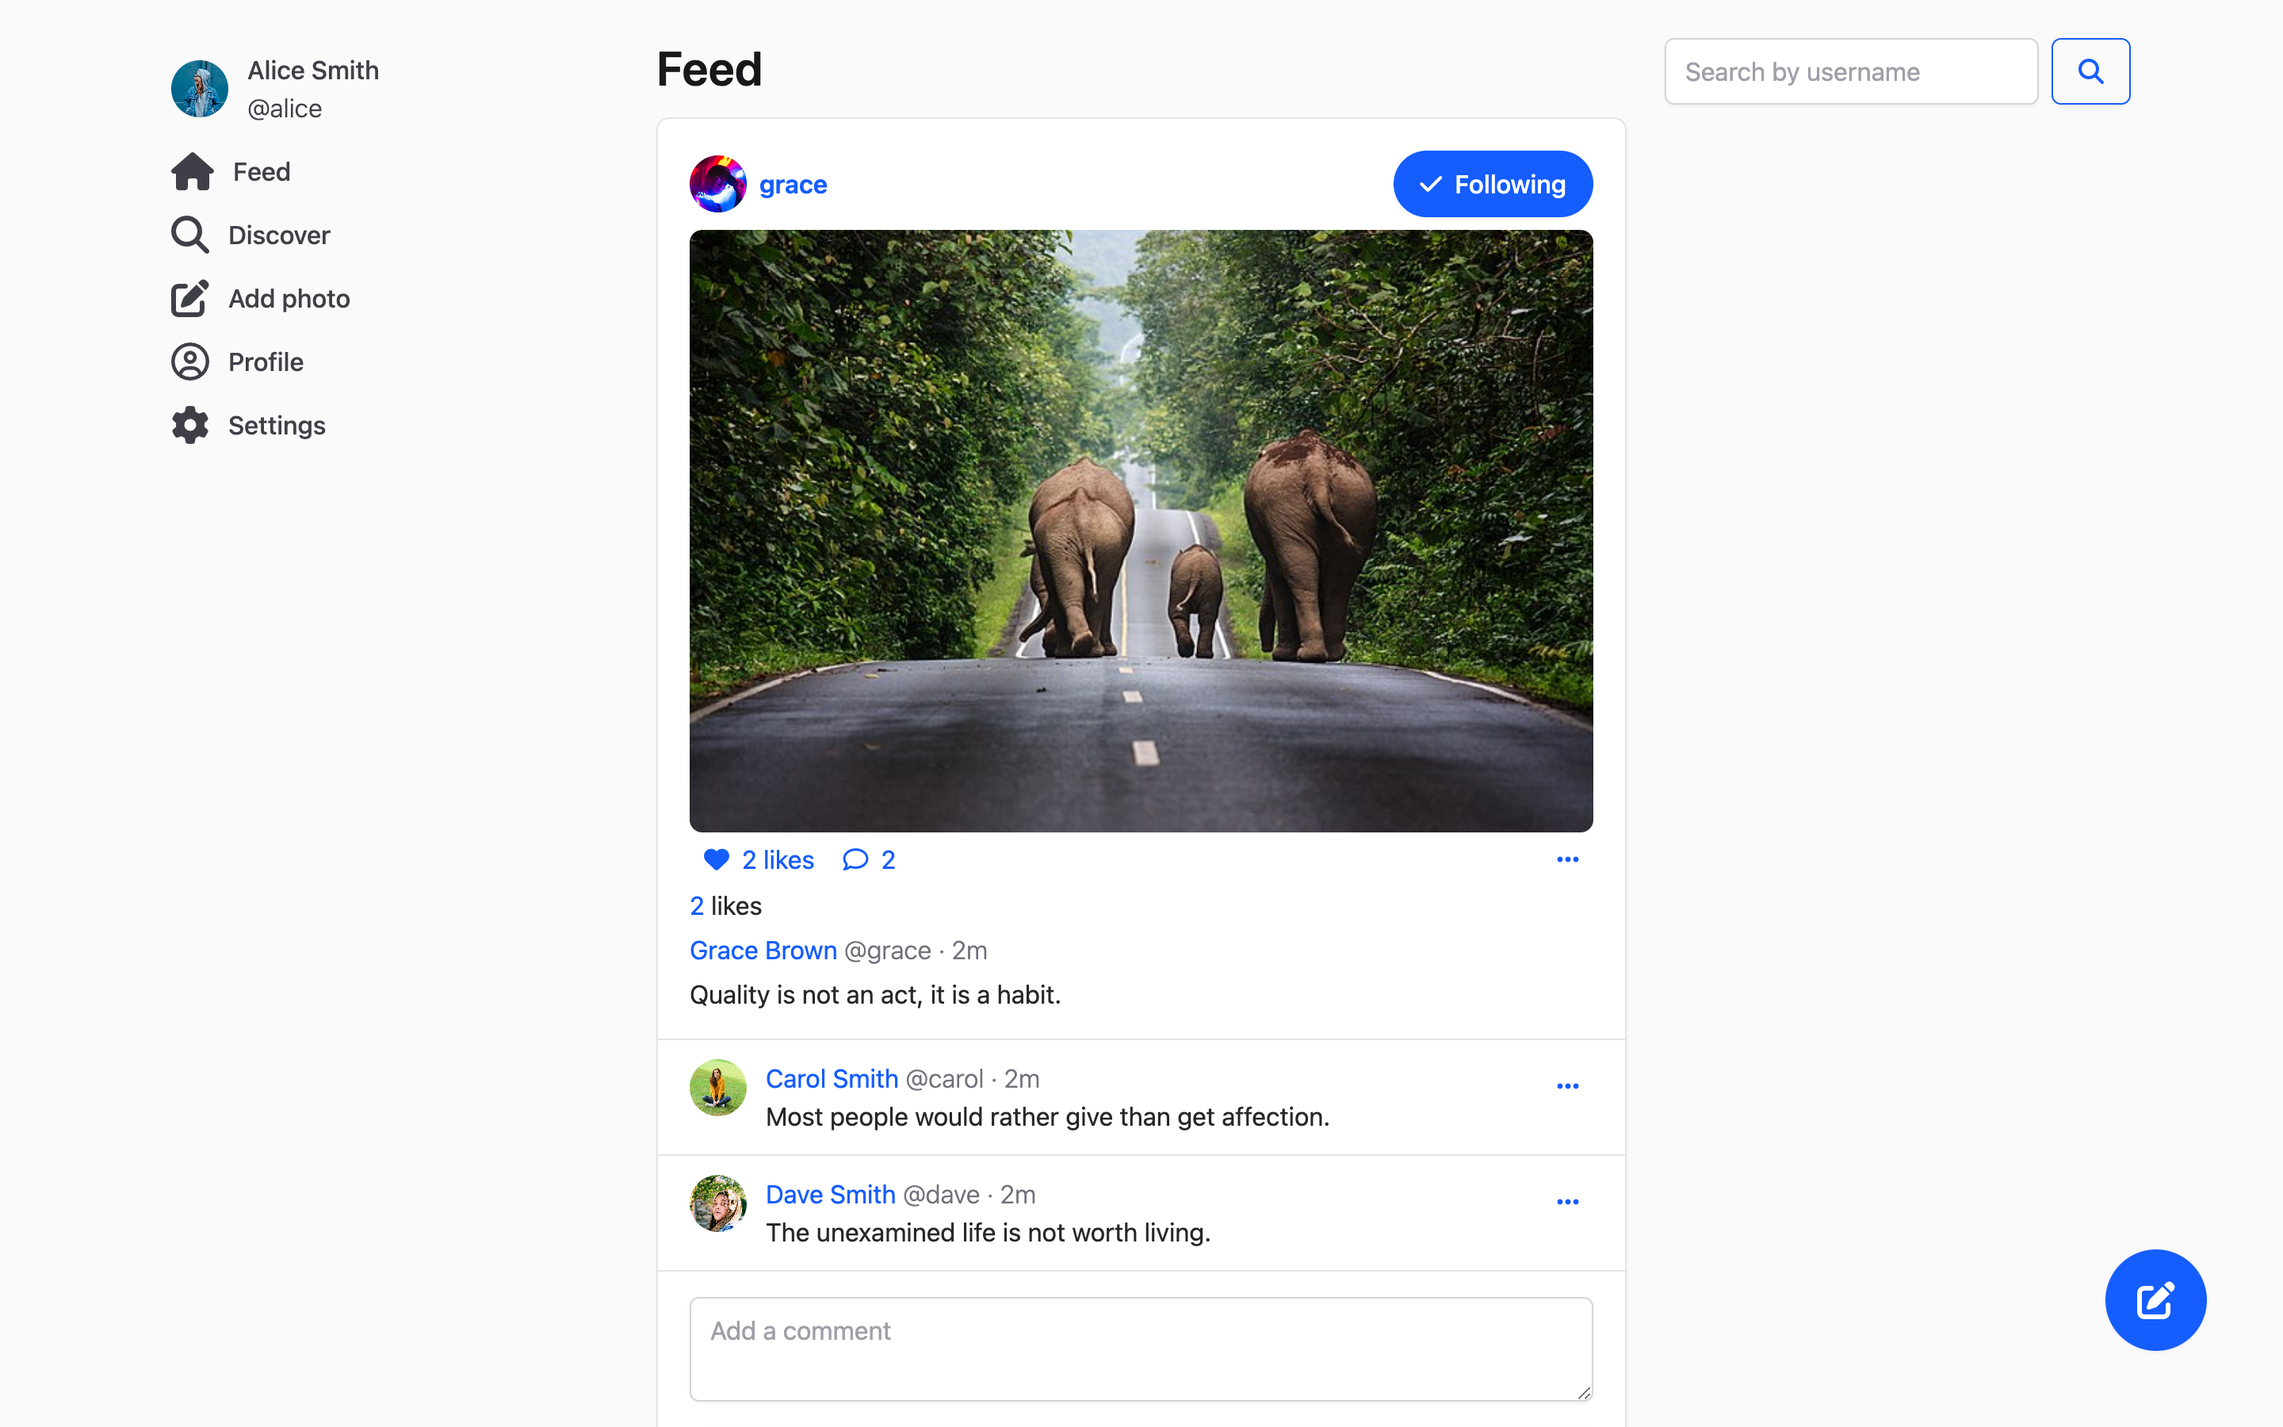
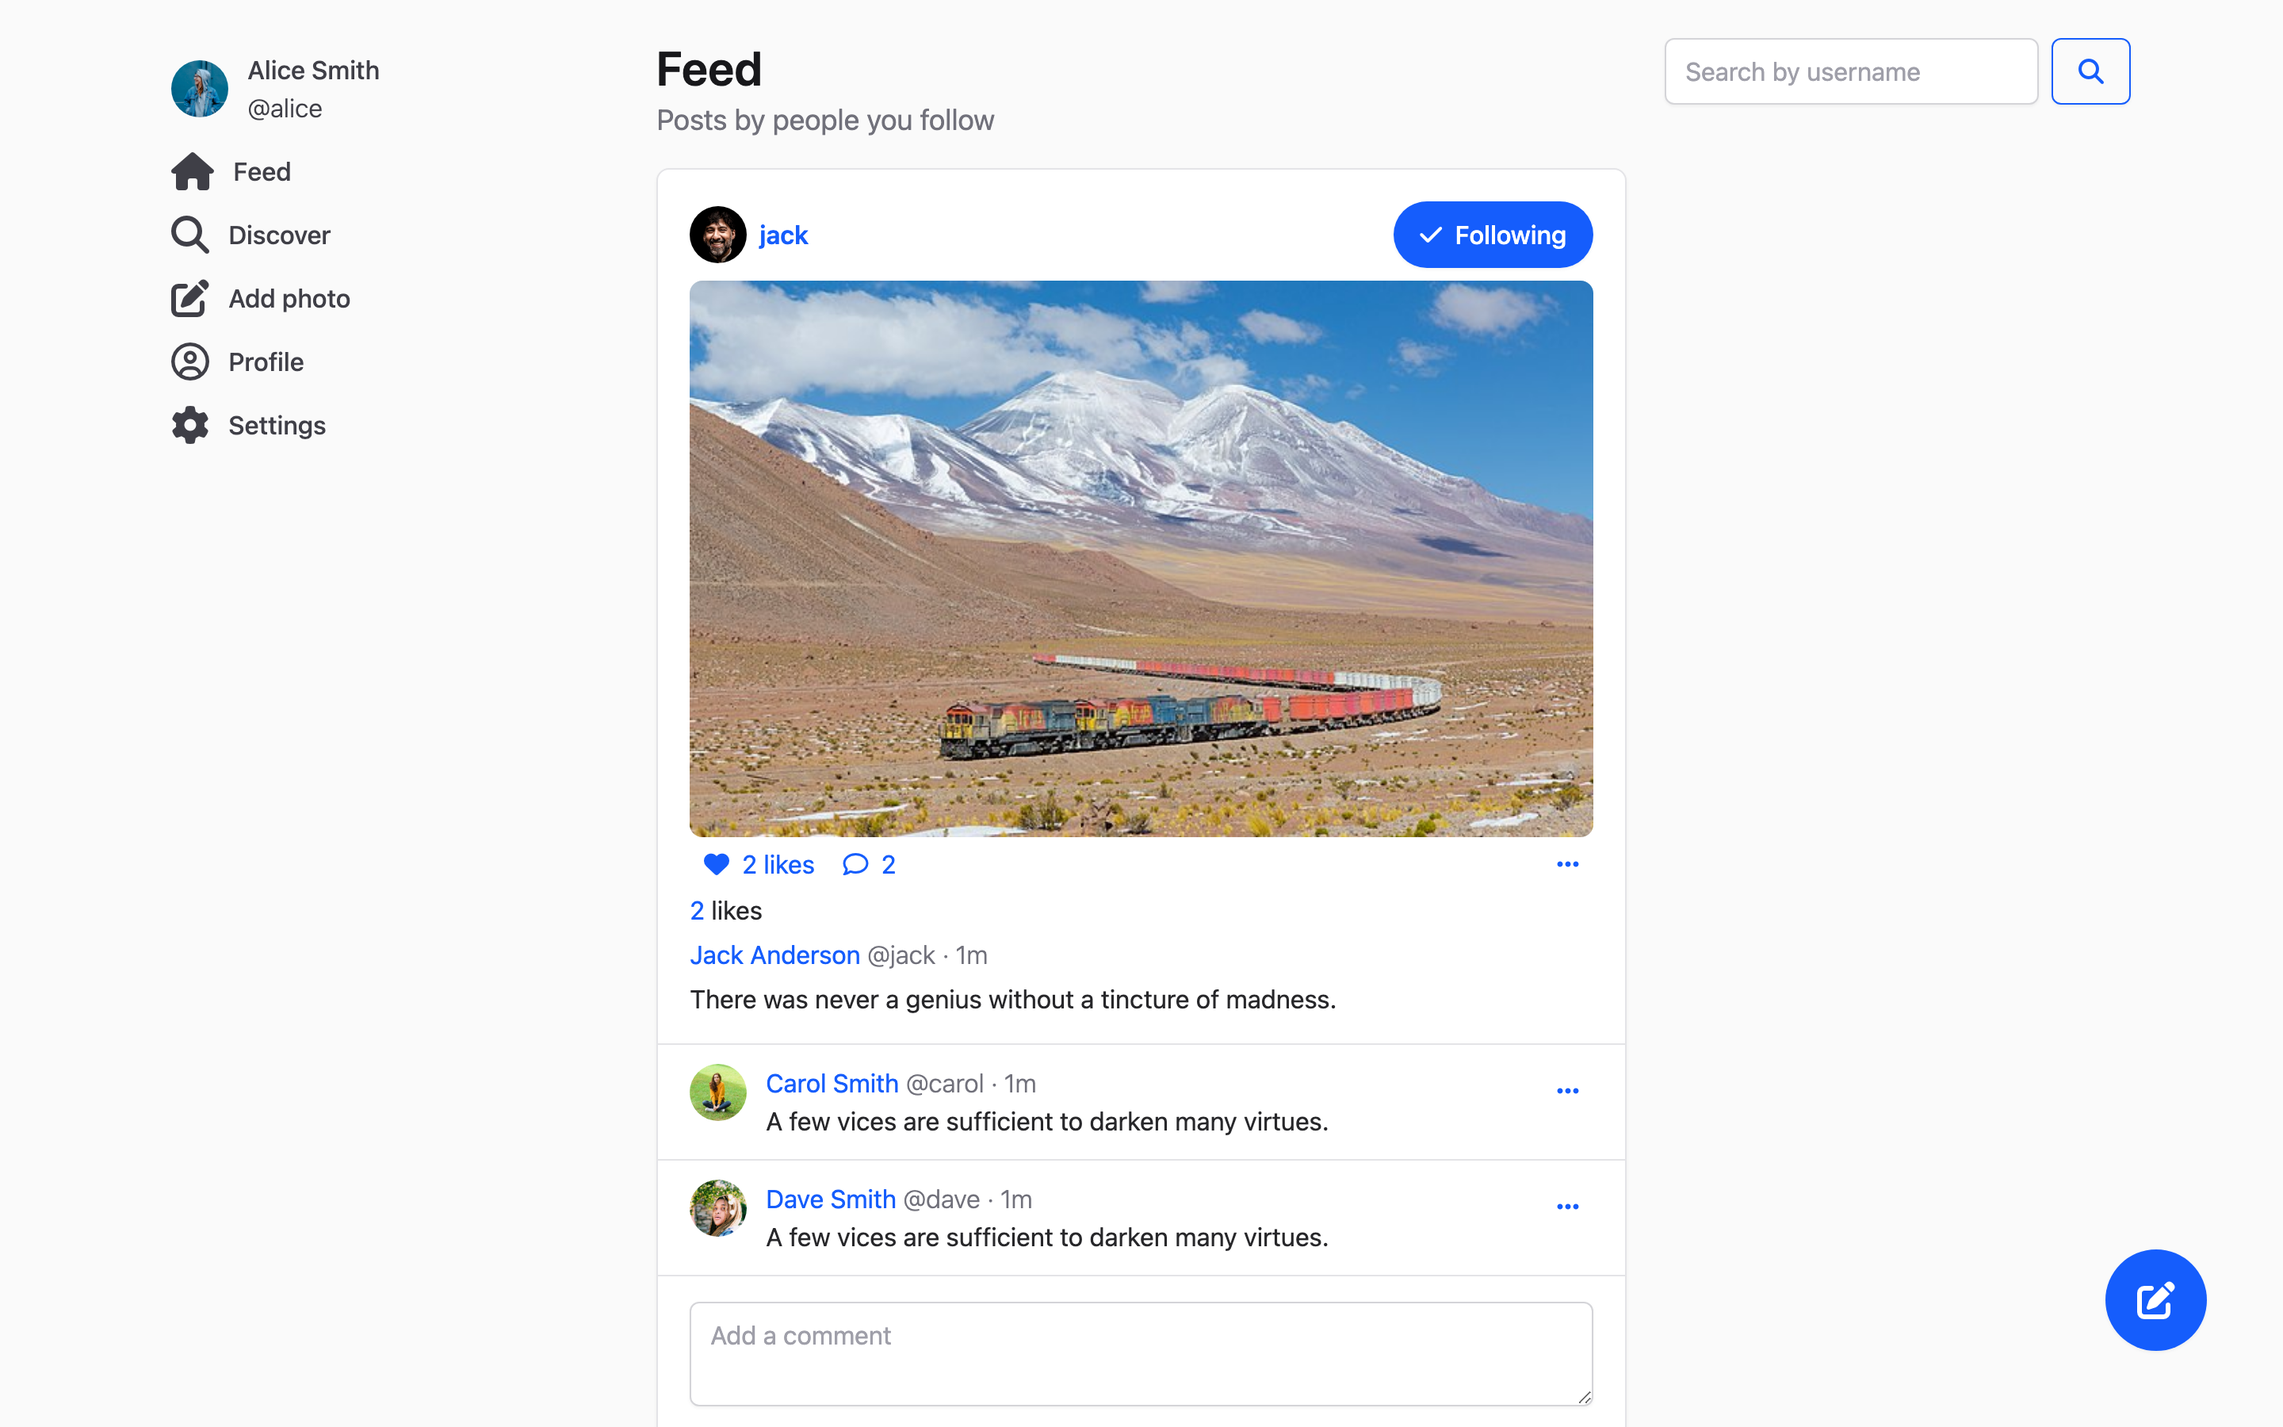
Remove pinning, add Feed and Discover subheadings, always show pending
The pin badge, the pin menu item and the `button_to` with `params:`
walkthrough are gone, along with the quiz question about it, since
nothing else in the app uses that technique.

Feed and Discover get a line under the title saying what each
lists. The pending link shows on every own profile, and the check
for it stays signed in as Alice, who has three pending requests in
the sample data. Four screenshots are retaken to match.

Claude-Session: https://claude.ai/code/session_01ARKWv8DH7pcTKiiUAtRjBe

Changed region(s): [[0.2812, 0.0622, 0.7188, 0.9644]]

diff --git a/content.md b/content.md
@@ -330,48 +330,23 @@ The photo card is the most important partial in the app. Every photo on the feed
 
 ![A photo card on Alice's profile page, with numbered callouts on its parts](/assets/photo-card-annotated.png)
 
-1. The "Pinned" badge (only on the owner's profile page).
-2. The owner's avatar and username, and a follow button.
-3. The photo.
-4. The like button and the comment count.
-5. The `...` menu: Edit, Delete, and Pin.
-6. The number of likes, which links to the "Liked by" page.
-7. The owner's name, how long ago they posted, and the caption.
-8. The comments.
-9. The form for a new comment.
+1. The owner's avatar and username, and a follow button.
+2. The photo.
+3. The like button and the comment count.
+4. The `...` menu: Edit and Delete.
+5. The number of likes, which links to the "Liked by" page.
+6. The owner's name, how long ago they posted, and the caption.
+7. The comments.
+8. The form for a new comment.
 
 Replace the scaffold-generated `app/views/photos/_photo.html.erb`. We'll build this file section by section, so delete what's in it now.
 
-### Pinned badge
+### Owner and follow button
 
-First, the card itself and the "Pinned" badge:
+First, the card itself, with the owner's avatar and username, and a follow button:
 
 ```erb
 <div class="card">
-  <% if photo.pinned? && current_page?(user_path(photo.owner.username)) %>
-    <div class="icon-link text-blue-600 mb-2">
-      <i class="fa-solid fa-thumbtack"></i>
-      Pinned
-    </div>
-  <% end %>
-<!-- ... -->
-```
-{: filename="app/views/photos/_photo.html.erb" }
-
-`class="card"` turns the `<div>` into a white box with a border and rounded corners, like the cards in [the AppDev styles reference](/lessons/945-style-with-appdev-tailwind#cards).
-
-We only show the "Pinned" badge on the owner's profile page. The `current_page?` helper checks whether the URL of the current request matches the path we give it. Pinned photos also go to the top of the owner's profile page, as we'll see.
-
-You can try pinning in [the target](https://pg-industrial.matchthetarget.com/): sign in, visit your profile page, and use the `...` menu on one of your photos to "Pin" or "Un-pin" it. The thumbtack and "Pinned" don't show on the feed or other pages, where `current_page?(user_path(photo.owner.username))` is `false`.
-
-### Owner and follow button
-
-Next, the owner's avatar and username, and a follow button:
-
-```erb{4-8,10-11}
-<!-- ... -->
-  <% end %>
-
   <div class="flex items-center justify-between mb-2">
     <div class="flex items-center gap-2">
       <%= image_tag photo.owner.avatar_image, class: "rounded-full img-small img-cover" %>
@@ -384,13 +359,15 @@ Next, the owner's avatar and username, and a follow button:
 ```
 {: filename="app/views/photos/_photo.html.erb" }
 
+`class="card"` turns the `<div>` into a white box with a border and rounded corners, like the cards in [the AppDev styles reference](/lessons/945-style-with-appdev-tailwind#cards).
+
 We reuse the `follow_requests/follow_unfollow` partial, with `current_user` as the `sender` and the photo's owner as the `recipient`.
 
 ### Image and action buttons
 
 Now the photo, and below it a row with the like button, a comment count, and the `...` menu:
 
-```erb{4,6-8,10-14,16-19,21-33}
+```erb{4,6-8,10-14,16-19,21-30}
 <!-- ... -->
   </div>
 
@@ -418,9 +395,6 @@ Now the photo, and below it a row with the like button, a comment count, and the
         <li>
           <%= button_to "Delete", photo_path(photo), method: :delete, class: "dropdown-item" %>
         </li>
-        <li>
-          <%= button_to photo.pinned? ? "Un-pin" : "Pin", photo_path(photo), method: :patch, class: "dropdown-item", params: { photo: { pinned: !photo.pinned } } %>
-        </li>
       </ul>
     </div>
   </div>
@@ -428,37 +402,10 @@ Now the photo, and below it a row with the like button, a comment count, and the
 ```
 {: filename="app/views/photos/_photo.html.erb" }
 
-`w-full` stretches the photo to the width of the card, and `rounded-lg` rounds its corners. On the left of the row, we render the like button partial and a comment icon that links to the photo's page. The `...` menu on the right is the same dropdown as the one on each comment, with three options:
+`w-full` stretches the photo to the width of the card, and `rounded-lg` rounds its corners. On the left of the row, we render the like button partial and a comment icon that links to the photo's page. The `...` menu on the right is the same dropdown as the one on each comment, with two options:
 
 - **Edit** links to the photo's edit page.
 - **Delete** sends a DELETE request with `button_to`.
-- **Pin** or **Un-pin** sends a PATCH request that flips the photo's `pinned` column.
-
-#### Pinning with `button_to` and `params:`
-
-The pin line is the trickiest one, so let's unpack it:
-
-```erb
-<%= button_to photo.pinned? ? "Un-pin" : "Pin", photo_path(photo), method: :patch, class: "dropdown-item", params: { photo: { pinned: !photo.pinned } } %>
-```
-
-We already know that `button_to` makes a small form with one button, which submits to a URL. Here:
-
-- `photo.pinned? ? "Un-pin" : "Pin"` is the button's text. This is Ruby's **ternary operator**, a one-line shortcut for an `if`/`else`: `condition ? value_if_true : value_if_false`. If the photo is pinned, the button says "Un-pin"; otherwise, it says "Pin."
-- `photo_path(photo)` is the photo's URL (e.g., `/photos/42`), and `method: :patch` sends a PATCH request there, which reaches the `update` action in `PhotosController`.
-- `params: { photo: { pinned: !photo.pinned } }` adds hidden fields to the form, without our having to write them out. The nested hash means the parameter arrives as `photo[pinned]`, which is the shape that `photo_params` expects in the controller (`params.expect(photo: [ :image, :caption, :pinned ])`).
-- `!photo.pinned` flips the boolean. If the photo is pinned (`true`), we send `false` to un-pin it, and if it isn't, we send `true`. One button, two behaviors.
-
-Here's a check on `button_to` with `params:`.
-
-- A post card has `<%= button_to "Archive", post_path(post), method: :patch, params: { post: { archived: true } } %>`. What does clicking it send?
-- A GET request to `/posts/42?archived=true`
-  - Not quite. `method: :patch` makes it a PATCH request, and `params:` become hidden fields in the form.
-- A PATCH request to `/posts/42`, with `post[archived]` set to `true`
-  - Yes! The nested hash arrives in the shape that `post_params` expects.
-- A PATCH request to `/posts/42`, with no params
-  - Not quite. `params:` adds hidden fields to the form that `button_to` makes.
-{: .choose_best #button_to_params title="Extra params with button_to" points="1" answer="2" }
 
 ### Likes count and caption
 
@@ -576,13 +523,19 @@ Let's put the photo card to use. Replace the stub in `app/views/users/feed.html.
 ```erb
 <% content_for :title, "Feed" %>
 
-<h1>Feed</h1>
+<h1 class="mb-0">Feed</h1>
+
+<p class="text-lg text-zinc-500">
+  Posts by people you follow
+</p>
 
 <%= render @photos %>
 ```
 {: filename="app/views/users/feed.html.erb" }
 
-That's collection rendering again: one photo card for each photo in `@photos`. The `@photos` variable comes from the `UsersController#feed` action:
+The line under the heading tells the user what this page lists. `mb-0` removes the heading's bottom margin, so that the line sits right below it, and `text-lg text-zinc-500` makes the line a little larger and gray.
+
+`render @photos` is collection rendering again: one photo card for each photo in `@photos`. The `@photos` variable comes from the `UsersController#feed` action:
 
 ```rb{3}
   # ...
@@ -608,7 +561,7 @@ Ask questions now!
 
 <div class="alert alert-success">
 
-<i class="fa-solid fa-circle-check"></i> Visit `/`. You should see photo cards with images, like buttons, comment forms, and follow buttons. Add a comment, and see it appear below the photo. Un-like and like a photo.
+<i class="fa-solid fa-circle-check"></i> Visit `/`. You should see "Posts by people you follow" under the heading, and photo cards with images, like buttons, comment forms, and follow buttons. Add a comment, and see it appear below the photo. Un-like and like a photo.
 </div>
 
 ![The feed page, signed in as Alice, with photo cards in the center column](/assets/feed.png)
@@ -628,13 +581,17 @@ The discover page shows photos liked by the people you follow. Replace the stub 
 ```erb
 <% content_for :title, "Discover" %>
 
-<h1>Discover</h1>
+<h1 class="mb-0">Discover</h1>
+
+<p class="text-lg text-zinc-500">
+  Posts liked by people you follow
+</p>
 
 <%= render @photos %>
 ```
 {: filename="app/views/users/discover.html.erb" }
 
-The template is the same as the feed's, and so is the photo card. The difference is where `@photos` comes from: `feed` goes from a user to their leaders to the leaders' own photos, while `discover` goes from a user to their leaders to the photos the leaders liked. The associations we defined in an earlier lesson write all of that SQL for us.
+Apart from the heading and the line under it, the template is the same as the feed's, and so is the photo card. The difference is where `@photos` comes from: `feed` goes from a user to their leaders to the leaders' own photos, while `discover` goes from a user to their leaders to the photos the leaders liked. The associations we defined in an earlier lesson write all of that SQL for us.
 
 <div class="alert alert-success">
 
@@ -659,9 +616,9 @@ Visit `/alice` in [the target](https://pg-industrial.matchthetarget.com/alice). 
 2. The avatar, which overlaps the banner.
 3. The display name, a "Private" badge on private accounts, and a follow button.
 4. The username.
-5. The followers, following, and posts counts. (On your own private account, there's a "pending" count too.)
+5. The followers, following, and posts counts. (On your own profile, there's a "pending" count too.)
 6. The bio and website.
-7. The Posts and Likes tabs, with pinned photos first.
+7. The Posts and Likes tabs.
 
 The route `get ":username" => "users#show", as: :user` sends URLs like `/alice` to the `UsersController#show` action, and the `set_user` `before_action` finds the user with `find_by!(username: params.fetch(:username))`. Can you trace that from `config/routes.rb` to `app/controllers/users_controller.rb`?
 
@@ -741,7 +698,7 @@ Add the followers, following, pending, and posts counts:
     <strong><%= @user.leaders.count %></strong> following
   <% end %>
 
-  <% if current_user == @user && @user.private? %>
+  <% if current_user == @user %>
     <%= link_to pending_path do %>
       <strong><%= @user.pending_received_follow_requests.count %></strong> pending
     <% end %>
@@ -758,7 +715,7 @@ Add the followers, following, pending, and posts counts:
 A few details to notice:
 
 - `link_to ... do ... end` (the block form) puts both the count and the label inside one link.
-- The "pending" count only shows when `current_user == @user && @user.private?`: you can only see your _own_ pending requests, and only a private account has any. `pending_path` takes no username, since `/pending` is always the current user's page.
+- The "pending" count only shows when `current_user == @user`: you can only see your _own_ pending requests. `pending_path` takes no username, since `/pending` is always the current user's page.
 - We use `@user.photos_count` (the counter cache column) instead of `@user.own_photos.count`, which saves a database query.
 
 `flex-wrap` lets the counts wrap onto a second line on a narrow screen.
@@ -791,7 +748,7 @@ Add the user's bio and website link:
 
 Finally, add the Posts and Likes tabs to the bottom of the file:
 
-```erb{4-18,20-29,31-34}
+```erb{4-18,20-28,30-33}
 <!-- ... -->
 <%= link_to @user.website, @user.website, target: "_blank" %>
 
@@ -813,8 +770,7 @@ Finally, add the Posts and Likes tabs to the bottom of the file:
 
   <div id="posts-pane" class="tab-pane active" data-tabs-target="panel">
     <% if @user.photos_count.positive? %>
-      <%= render @user.own_photos.pinned.latest %>
-      <%= render @user.own_photos.unpinned.latest %>
+      <%= render @user.own_photos.latest %>
     <% else %>
       <p class="text-zinc-500">
         User hasn't posted anything yet.
@@ -837,11 +793,11 @@ This is the `tabs` Stimulus controller from our starting point, used the same wa
 
 The panels' `id`s are there because the page itself needs them: `aria-controls` points at them, both for the controller and for screen readers.
 
-In the **Posts** panel, we render pinned photos first, and then the rest, with the `pinned` and `unpinned` scopes we defined on the Photo model in an earlier lesson. In the **Likes** panel, we render the photos the user has liked, through the `liked_photos` association. Each group is ordered newest first with the `latest` scope from the same lesson.
+In the **Posts** panel, we render the user's own photos. In the **Likes** panel, we render the photos the user has liked, through the `liked_photos` association. Both are ordered newest first with the `latest` scope we defined on the Photo model in an earlier lesson.
 
 <div class="alert alert-success">
 
-<i class="fa-solid fa-circle-check"></i> Visit `/alice`. You should see the whole profile page. Her pinned photo is at the top of Posts, with the "Pinned" badge. Click "Likes" to see the photos she's liked, and "Posts" to switch back.
+<i class="fa-solid fa-circle-check"></i> Visit `/alice`. You should see the whole profile page, with her newest photo at the top of Posts. Click "Likes" to see the photos she's liked, and "Posts" to switch back.
 </div>
 
 Commit:
@@ -1077,10 +1033,10 @@ The rest of each `<li>` is the same as our `_list_item` partial, except for the 
 
 <div class="alert alert-success">
 
-<i class="fa-solid fa-circle-check"></i> Alice's account is public, so she has no pending requests. Sign out, and sign in as `bob@example.com` (password `appdev`), whose account is private. Click "pending" on his profile page, or visit `/pending`. You should see his pending follow requests, with Accept and Reject buttons. Try accepting or rejecting one.
+<i class="fa-solid fa-circle-check"></i> Click "pending" on your profile page, or visit `/pending`. You should see Alice's pending follow requests, with Accept and Reject buttons. Try accepting or rejecting one.
 </div>
 
-![Bob's pending page: a card listing each pending follow request with Accept and Reject buttons](/assets/pending.png)
+![Alice's pending page: a card listing each pending follow request with Accept and Reject buttons](/assets/pending.png)
 
 Commit:
 
